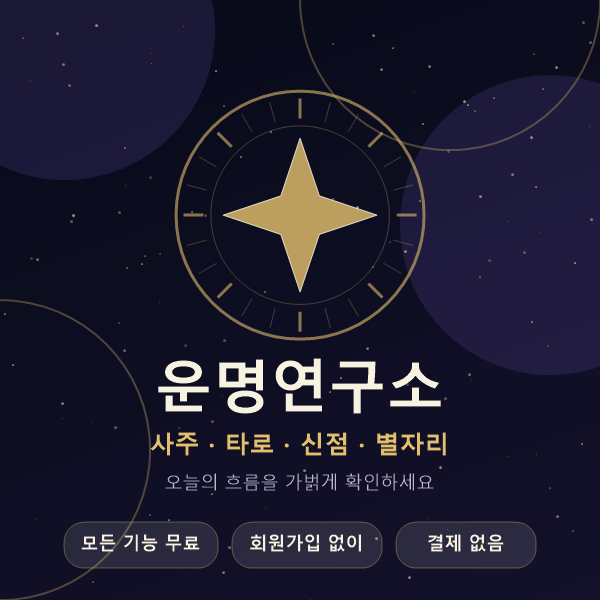
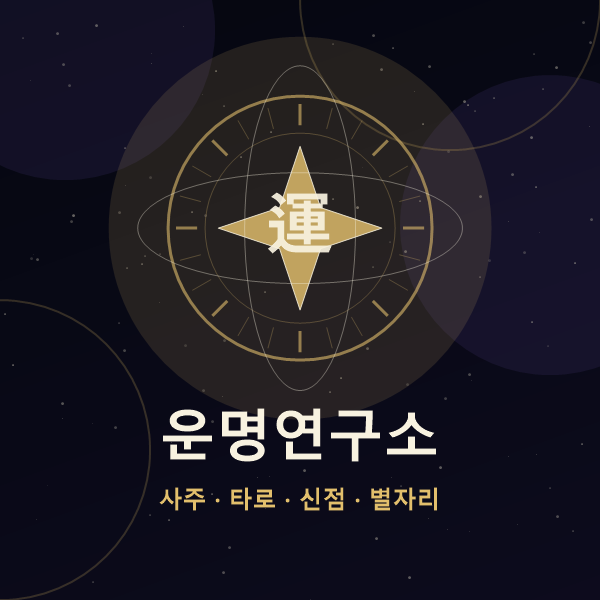
fix: polish store assets and mobile saju layout

diff --git a/appintoss/src/styles.css b/appintoss/src/styles.css
@@ -29,8 +29,10 @@
 html,
 body,
 #root {
+  width: 100%;
   min-height: 100%;
   margin: 0;
+  overflow-x: hidden;
 }
 
 body {
@@ -63,11 +65,13 @@ select:focus-visible {
 
 .appShell {
   position: relative;
+  width: min(100%, 520px);
   max-width: 520px;
   min-height: 100dvh;
   margin: 0 auto;
   padding: env(safe-area-inset-top) 14px calc(86px + env(safe-area-inset-bottom));
-  overflow: hidden;
+  overflow-x: hidden;
+  overflow-y: visible;
 }
 
 .appShell::before {
@@ -146,11 +150,15 @@ select:focus-visible {
 .screen {
   position: relative;
   z-index: 1;
+  width: 100%;
+  min-width: 0;
 }
 
 .stack {
   display: grid;
   gap: 14px;
+  width: 100%;
+  min-width: 0;
 }
 
 .heroCard,
@@ -159,10 +167,44 @@ select:focus-visible {
 .formPanel,
 .tarotTable,
 .oracleResult {
+  width: 100%;
+  min-width: 0;
+  max-width: 100%;
   border: 1px solid var(--line);
   border-radius: var(--radius);
   background: linear-gradient(180deg, rgba(28, 32, 53, 0.94), rgba(14, 17, 30, 0.94));
   box-shadow: 0 18px 45px rgba(0, 0, 0, 0.34);
+}
+
+.screenTitle,
+.panelBlock,
+.formPanel,
+.resultHero,
+.inlineWarn,
+.quickGrid,
+.miniGrid,
+.scoreGrid,
+.pillarGrid,
+.actionRow,
+.tarotSpread,
+.tarotSlots,
+.zodiacGrid,
+.recordMiniList,
+.recordList,
+.timeline,
+.legalText {
+  min-width: 0;
+  max-width: 100%;
+}
+
+.screenTitle *,
+.panelBlock *,
+.formPanel *,
+.resultHero *,
+.inlineWarn *,
+.recordList *,
+.legalText * {
+  overflow-wrap: anywhere;
 }
 
 .heroCard {
@@ -388,12 +430,14 @@ select:focus-visible {
   display: grid;
   grid-template-columns: 1.2fr 0.9fr 0.9fr;
   gap: 8px;
+  min-width: 0;
 }
 
 .twoCols {
   display: grid;
   grid-template-columns: 1fr 1fr;
   gap: 8px;
+  min-width: 0;
 }
 
 .checkRow {
@@ -460,6 +504,7 @@ select:focus-visible {
   display: grid;
   grid-template-columns: 1.2fr 0.8fr;
   gap: 10px;
+  min-width: 0;
 }
 
 .actionRow .ghostButton:last-child:nth-child(3) {
@@ -467,6 +512,7 @@ select:focus-visible {
 }
 
 .resultHero {
+  max-width: 100%;
   padding: 20px;
   border: 1px solid rgba(241, 213, 140, 0.22);
   border-radius: var(--radius);
@@ -564,6 +610,11 @@ select:focus-visible {
   display: flex;
   justify-content: space-between;
   gap: 10px;
+  min-width: 0;
+}
+
+.scoreTop span {
+  min-width: 0;
 }
 
 .scoreTop strong {
@@ -610,6 +661,7 @@ select:focus-visible {
   grid-auto-columns: 132px;
   gap: 8px;
   overflow-x: auto;
+  max-width: 100%;
   padding-bottom: 6px;
 }
 
@@ -938,6 +990,32 @@ select:focus-visible {
 
   .zodiacGrid {
     grid-template-columns: repeat(2, minmax(0, 1fr));
+  }
+}
+
+@media (max-width: 430px) {
+  .threeCols,
+  .twoCols,
+  .quickGrid,
+  .miniGrid,
+  .scoreGrid,
+  .actionRow {
+    grid-template-columns: 1fr;
+  }
+
+  .pillarGrid {
+    grid-template-columns: repeat(2, minmax(0, 1fr));
+  }
+
+  .resultHero h1 {
+    font-size: 1.42rem;
+  }
+
+  .panelBlock,
+  .formPanel,
+  .screenTitle {
+    padding-left: 16px;
+    padding-right: 16px;
   }
 }
 

diff --git a/APPINTOSS-QA-CHECKLIST.md b/APPINTOSS-QA-CHECKLIST.md
@@ -14,7 +14,7 @@
 | 타로 테스트 | `npm run test:tarot` | 통과 |
 | 식별 테스트 | `npm run test:identity` | 통과 |
 | Vite 빌드 | `npm run build` | 통과 |
-| 공식 AIT 빌드 | `npm exec -- ait build` 및 `npm run build:appintoss` | 통과, deploymentId `019f4f3f-4cc5-758f-ac96-8a78b4037e23` |
+| 공식 AIT 빌드 | `npm exec -- ait build` 및 `npm run build:appintoss` | 통과, deploymentId `019f4f4e-92a6-7c49-99d1-8dd05db495fb` |
 | 업로드용 ZIP | `npm run bundle` | 통과 |
 | 개인정보 검사 | `npm run check:privacy` | 통과 |
 | 무료 정책 검사 | `npm run check:free-only` | 통과 |

diff --git a/APPINTOSS-RELEASE-GUIDE.md b/APPINTOSS-RELEASE-GUIDE.md
@@ -32,7 +32,7 @@ npm run check:appintoss
 
 - 공식 업로드 후보: `appintoss/unmyeong-lab.ait`
 - 보조 ZIP: `appintoss/dist-appintoss/unmyeong-lab-appintoss.zip`
-- 최신 로컬 AIT 빌드 deploymentId: `019f4f3f-4cc5-758f-ac96-8a78b4037e23`
+- 최신 로컬 AIT 빌드 deploymentId: `019f4f4e-92a6-7c49-99d1-8dd05db495fb`
 
 공식 콘솔이 `.ait` 업로드를 요구하면 `.ait` 파일을 사용하고, 정적 WebView ZIP 업로드 절차가 필요한 경우 보조 ZIP을 사용한다.
 

diff --git a/README-APPINTOSS.md b/README-APPINTOSS.md
@@ -90,7 +90,7 @@ npm run check:appintoss
 - 공식 AIT 산출물: `appintoss/unmyeong-lab.ait`
 - 보조 ZIP 번들: `appintoss/dist-appintoss/unmyeong-lab-appintoss.zip`
 - 웹 빌드: `appintoss/dist/web/`
-- 최신 로컬 AIT 빌드 deploymentId: `019f4f3f-4cc5-758f-ac96-8a78b4037e23`
+- 최신 로컬 AIT 빌드 deploymentId: `019f4f4e-92a6-7c49-99d1-8dd05db495fb`
 
 위 파일들은 로컬 제출/검증 산출물이므로 `.gitignore`에 포함했다.
 